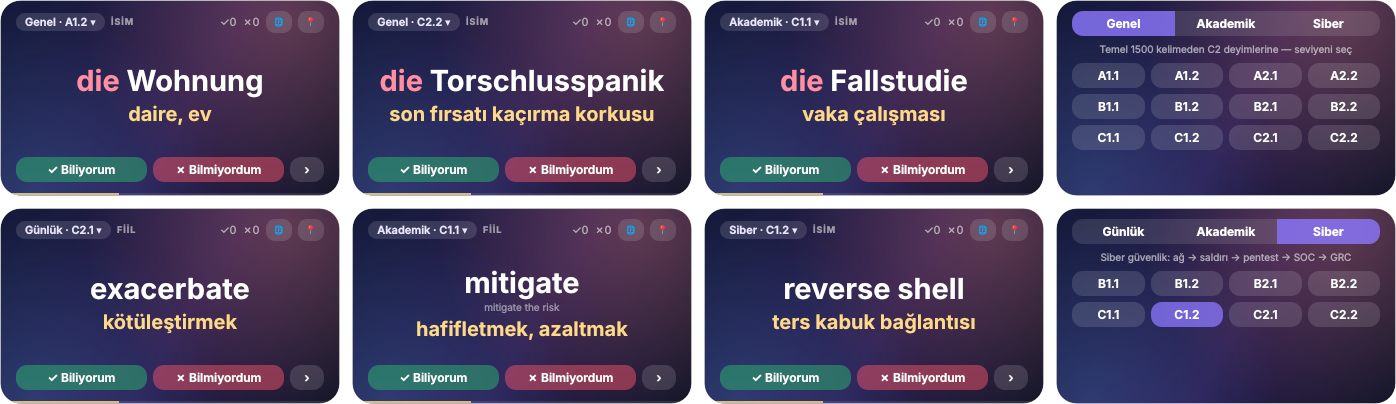
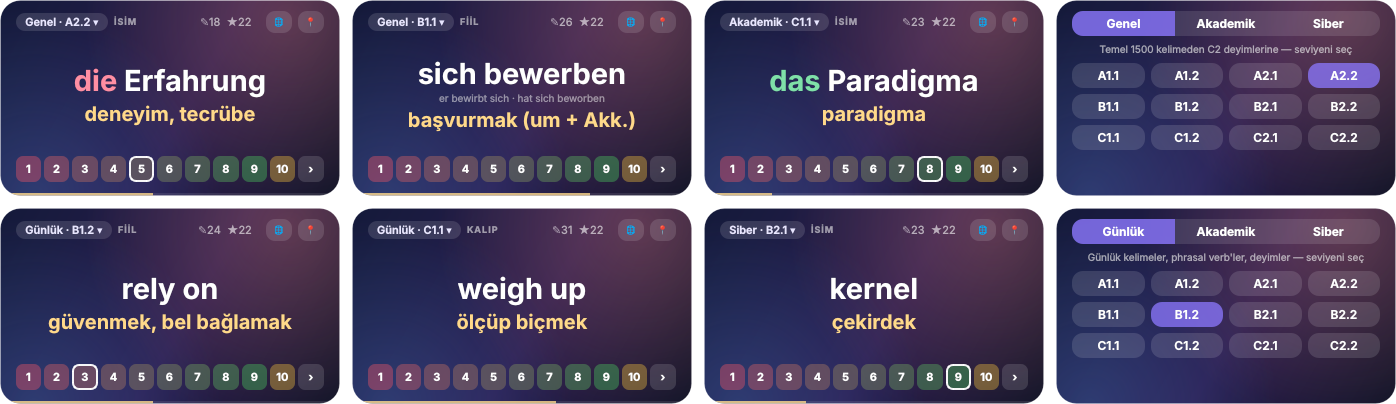
README: new screenshots with the 1–10 scale and report; layout fixes
- all card screenshots retaken with the 1–10 buttons
- report screenshot in each language section (EN, TR, DE, RU)
- top row: level chip no longer gets squeezed, word-type tag hides when
  there is no room
- report: real progress bars; DE→TR / EN→TR titles now 'Word Flow'

Claude-Session: https://claude.ai/code/session_01AfBnNG3efSq9SF8KiY5zE8

diff --git a/wordflow.py b/wordflow.py
@@ -43,7 +43,8 @@ from PyQt6.QtWidgets import (QApplication, QWidget, QLabel, QPushButton,
                              QVBoxLayout, QHBoxLayout, QGridLayout,
                              QStackedWidget, QMenu, QFileDialog, QSizePolicy,
                              QDialog, QTabWidget, QTableWidget, QTableWidgetItem,
-                             QHeaderView, QAbstractItemView, QMessageBox)
+                             QHeaderView, QAbstractItemView, QMessageBox,
+                             QProgressBar)
 
 sys.path.insert(0, os.path.dirname(os.path.abspath(__file__)))
 from wordlists import german, english, russian  # noqa: E402
@@ -339,7 +340,7 @@ PAIR_FOR = {("tr", "en"): "en-tr", ("tr", "de"): "de-tr",
             ("tr", "ru"): "ru-tr", ("en", "ru"): "ru-en", ("de", "ru"): "ru-de"}
 
 PAIRS = {
-    "de-tr": {"title": "Kelime Akışı · DE → TR", "ui": "tr", "src": "de", "dst": "tr",
+    "de-tr": {"title": "Word Flow · DE → TR", "ui": "tr", "src": "de", "dst": "tr",
               "state": "kelime-akisi",
               "modes": {"general": parse_block(german.GERMAN, "general", lambda w, tr: tr),
                         "academic": parse_block(german.GERMAN_ACADEMIC, "academic",
@@ -561,7 +562,7 @@ class ReportDialog(QDialog):
         self.ww = ww
         T = ww.T
         self.setWindowTitle(f"{T['r_title']} · {ww.pair['title'].split('·')[-1].strip()}")
-        self.resize(640, 520)
+        self.resize(690, 560)
         self.setStyleSheet(DIALOG_CSS)
         v = QVBoxLayout(self)
         self.tabs = QTabWidget()
@@ -660,13 +661,23 @@ class ReportDialog(QDialog):
             lasts = [r["h"][-1][1] for r in seen]
             avg = round(sum(lasts) / len(lasts), 1) if lasts else ""
             pct = round(100 * learned / len(keys)) if keys else 0
-            bar = "█" * (pct // 10) + "░" * (10 - pct // 10) + f"  {pct}%"
-            rows.append({"cells": [lv, len(keys), len(seen), learned, avg, bar]})
+            rows.append({"cells": [lv, len(keys), len(seen), learned, avg, ""], "pct": pct})
             tot[0] += len(keys); tot[1] += len(seen); tot[2] += learned; tot[3] += lasts
         avg = round(sum(tot[3]) / len(tot[3]), 1) if tot[3] else ""
         pct = round(100 * tot[2] / tot[0]) if tot[0] else 0
-        rows.append({"cells": [T["r_all"], tot[0], tot[1], tot[2], avg, f"{pct}%"]})
+        rows.append({"cells": [T["r_all"], tot[0], tot[1], tot[2], avg, ""], "pct": pct})
         self.fill(self.lv_table, rows)
+        for r, row in enumerate(rows):
+            bar = QProgressBar()
+            bar.setRange(0, 100)
+            bar.setValue(row["pct"])
+            bar.setFormat("%p%")
+            bar.setStyleSheet(
+                "QProgressBar{background:#2a2640;border:none;border-radius:6px;color:white;"
+                "text-align:center;font-size:11px;margin:5px 6px;}"
+                "QProgressBar::chunk{border-radius:6px;background:qlineargradient("
+                "x1:0,y1:0,x2:1,y2:0,stop:0 #6f5cf0,stop:1 #d6aa3c);}")
+            self.lv_table.setCellWidget(r, 5, bar)
 
         n_ratings = sum(len(r["h"]) for r in recs.values())
         week = datetime.datetime.now().timestamp() - 7 * 86400
@@ -853,7 +864,10 @@ class WordWidget(QWidget):
         self.level_btn.setCursor(Qt.CursorShape.PointingHandCursor)
         self.level_btn.setToolTip(self.T["tip_level"])
         self.level_btn.clicked.connect(self.show_picker)
+        self.level_btn.setSizePolicy(QSizePolicy.Policy.Fixed, QSizePolicy.Policy.Fixed)
         self.type_lbl = QLabel()
+        self.type_lbl.setSizePolicy(QSizePolicy.Policy.Ignored, QSizePolicy.Policy.Preferred)
+        self.type_lbl.setMinimumWidth(0)
         self.type_lbl.setStyleSheet("color:rgba(255,255,255,0.55);"
                                     "font-size:9px;font-weight:700;letter-spacing:1px;")
         self.stats_lbl = QLabel()
@@ -864,8 +878,7 @@ class WordWidget(QWidget):
         self.pin_btn.setCursor(Qt.CursorShape.PointingHandCursor)
         self.pin_btn.clicked.connect(self.toggle_pin)
         top.addWidget(self.level_btn)
-        top.addWidget(self.type_lbl)
-        top.addStretch(1)
+        top.addWidget(self.type_lbl, 1)
         top.addWidget(self.stats_lbl)
         if self.controller:
             self.lang_btn = QPushButton("🌐")
@@ -1122,11 +1135,19 @@ class WordWidget(QWidget):
             self.m_lbl.setText(colorize_german(e["m"], gold))
         else:
             self.m_lbl.setText(f"<span style='color:{gold}'>{escape(e['m'])}</span>")
-        self.type_lbl.setText(self.T["types"].get(e["t"], ""))
+        self.set_type(self.T["types"].get(e["t"], ""))
         h = self.ws(e["key"])["h"]
         self.style_scores(h[-1][1] if h else None)   # outline = your last score
         for b in self.score_btns:
             b.setEnabled(True)
+
+    def set_type(self, text):
+        """Word-type tag (NOUN, VERB …) — dropped when the top row has no room for it."""
+        used = (self.level_btn.sizeHint().width() + self.stats_lbl.minimumWidth()
+                + 26 * (2 if self.controller else 1) + 6 * 5)
+        room = APP_W - 32 - used
+        fits = QFontMetrics(self.type_lbl.font()).horizontalAdvance(text) + 12 <= room
+        self.type_lbl.setText(text if fits else "")
 
     def render_empty(self):
         self.w_lbl.setFont(self.fit_font(self.T["all_learned"], 14, 9, APP_W - 36))
